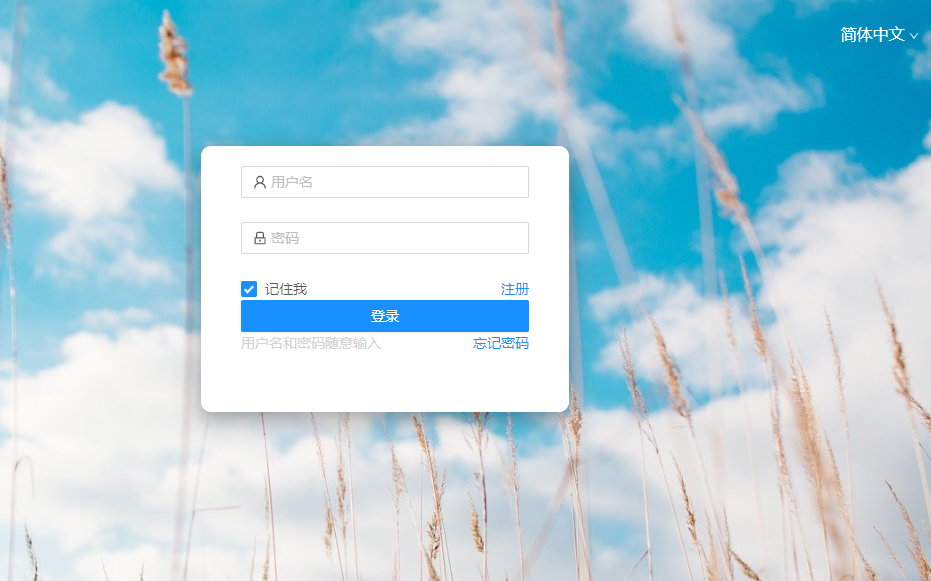
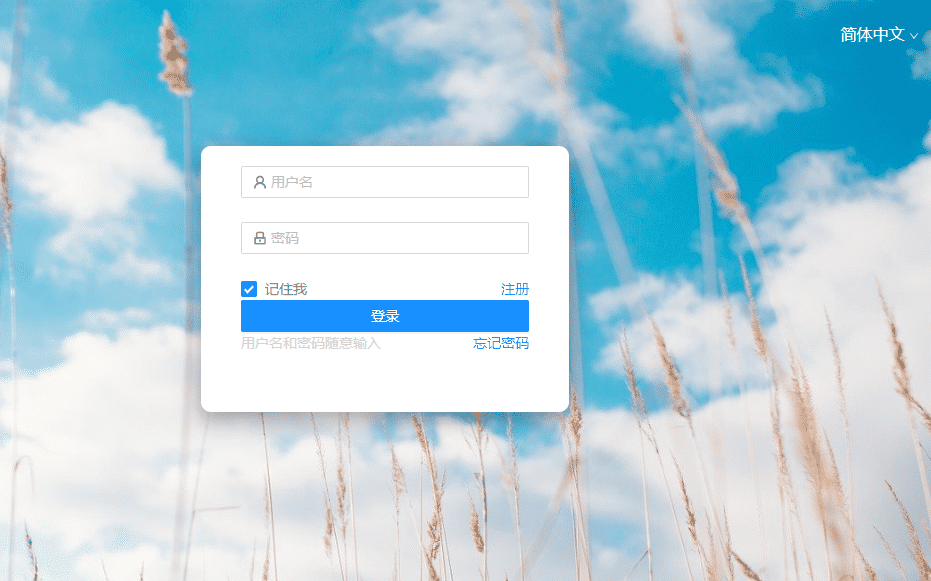
压缩图片,修改md文件

diff --git a/README.md b/README.md
@@ -1,27 +1,15 @@
-# EmsWeb
+# 基于Angular9构建的SPA后台管理系统  
+该项目是使用Angular9和 ng-zorro-antd 构建的一款单页面应用后台管理系统。
 
-This project was generated with [Angular CLI](https://github.com/angular/angular-cli) version 9.1.0.
+系统具有登录、注册、多语言切换、权限控制等功能，页面之间通过tab的方式进行切换。
 
-## Development server
+>该项目演示中的数据由mockjs生成   
+>待办项和复杂表格页的内容是保存在localStorage，可随意增删改查。
 
-Run `ng serve` for a dev server. Navigate to `http://localhost:4200/`. The app will automatically reload if you change any of the source files.
 
-## Code scaffolding
 
-Run `ng generate component component-name` to generate a new component. You can also use `ng generate directive|pipe|service|class|guard|interface|enum|module`.
+## 演示图
 
-## Build
-
-Run `ng build` to build the project. The build artifacts will be stored in the `dist/` directory. Use the `--prod` flag for a production build.
-
-## Running unit tests
-
-Run `ng test` to execute the unit tests via [Karma](https://karma-runner.github.io).
-
-## Running end-to-end tests
-
-Run `ng e2e` to execute the end-to-end tests via [Protractor](http://www.protractortest.org/).
-
-## Further help
-
-To get more help on the Angular CLI use `ng help` or go check out the [Angular CLI README](https://github.com/angular/angular-cli/blob/master/README.md).
+![演示图1](https://raw.githubusercontent.com/Leemagination/ems-web/master/src/assets/img/img1.png)
+![演示图2](https://raw.githubusercontent.com/Leemagination/ems-web/master/src/assets/img/img2.png)
+![演示图3](https://raw.githubusercontent.com/Leemagination/ems-web/master/src/assets/img/img3.png)
